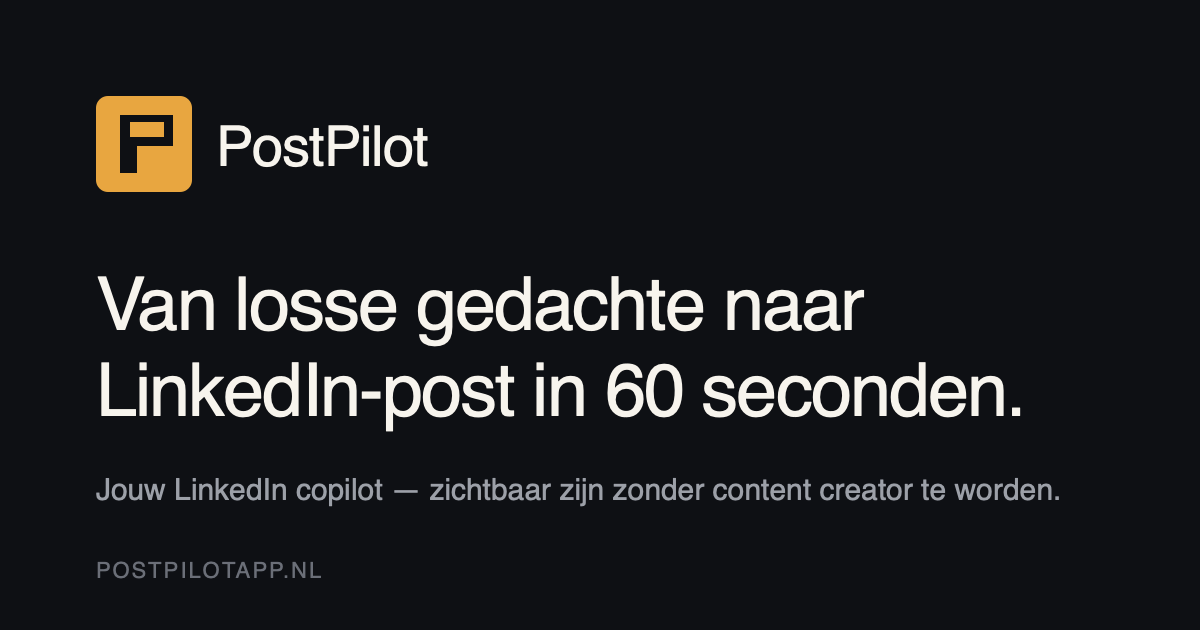
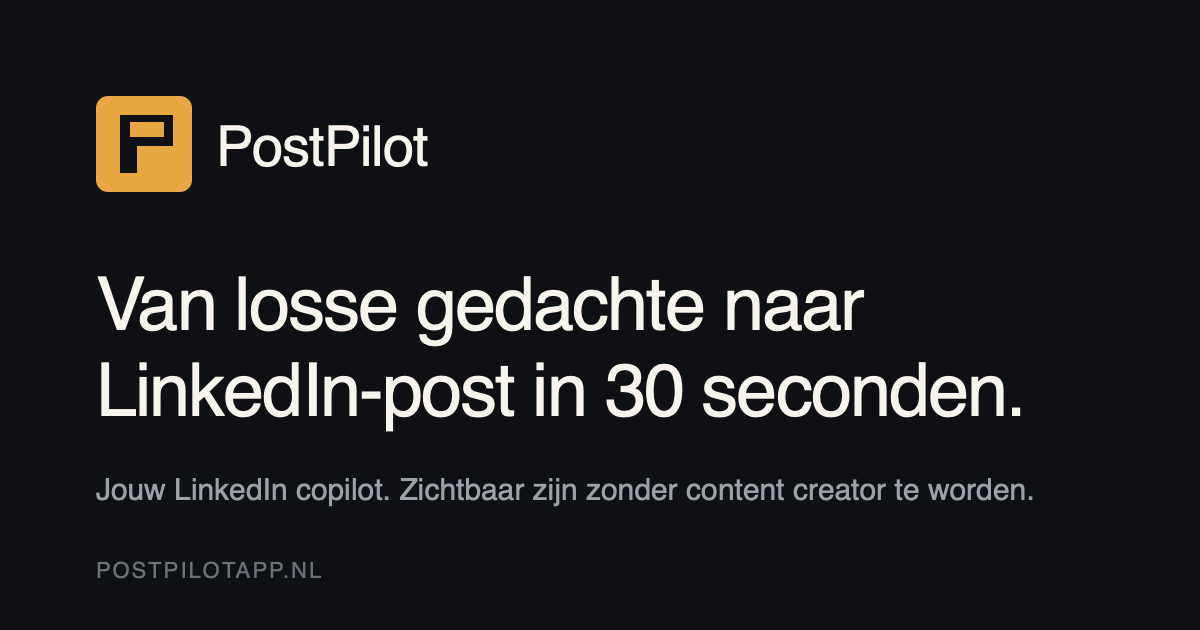
Final copy fixes before the free plan leaves the site
- Hidden trial copy in the pricing and closing leads now reads as a second
  sentence ("De eerste 30 dagen zijn gratis." / "De eerste 30 dagen betaal
  je niets."). stripeTrial stays false.
- One number for the speed claim: 30 seconds. Replaced "60 seconden" and
  the "ongeveer een minuut" / "in één" variants on the generator and
  writing pages, in the web manifest and in the share image.
- Share image: same design, re-rendered with sips; the em dash is gone.

Changed region(s): [[0.3392, 0.754, 0.8942, 0.8143], [0.4933, 0.573, 0.555, 0.6635]]

diff --git a/linkedin-posts-schrijven.html b/linkedin-posts-schrijven.html
@@ -21,20 +21,20 @@
   <script>(function(w,d,s,l,i){w[l]=w[l]||[];w[l].push({'gtm.start':new Date().getTime(),event:'gtm.js'});var f=d.getElementsByTagName(s)[0],j=d.createElement(s),dl=l!=='dataLayer'?'&l='+l:'';j.async=true;j.src='https://data.postpilotapp.nl/d8zhtxip1v.js?tg='+i+dl;f.parentNode.insertBefore(j,f);})(window,document,'script','dataLayer','NG5RNNJH');</script>
   <!-- ───── einde tracking ───── -->
   <title>LinkedIn-posts schrijven in het Nederlands · PostPilot</title>
-  <meta name="description" content="LinkedIn-posts schrijven kost vaak 30 minuten. Met de juiste aanpak (en een Nederlandse post generator) doe je het in één. Stappenplan plus voorbeelden.">
+  <meta name="description" content="LinkedIn-posts schrijven kost vaak 30 minuten. Met de juiste aanpak (en een Nederlandse post generator) staat je post er in 30 seconden. Stappenplan plus voorbeelden.">
   <link rel="canonical" href="https://www.postpilotapp.nl/linkedin-posts-schrijven">
   <meta property="og:type" content="article">
   <meta property="og:site_name" content="PostPilot">
   <meta property="og:locale" content="nl_NL">
   <meta property="og:title" content="LinkedIn-posts schrijven in het Nederlands · PostPilot">
-  <meta property="og:description" content="LinkedIn-posts schrijven kost vaak 30 minuten. Met de juiste aanpak (en een Nederlandse post generator) doe je het in één. Stappenplan plus voorbeelden.">
+  <meta property="og:description" content="LinkedIn-posts schrijven kost vaak 30 minuten. Met de juiste aanpak (en een Nederlandse post generator) staat je post er in 30 seconden. Stappenplan plus voorbeelden.">
   <meta property="og:url" content="https://www.postpilotapp.nl/linkedin-posts-schrijven">
   <meta property="og:image" content="https://www.postpilotapp.nl/assets/og-image.png">
   <meta property="og:image:width" content="1200">
   <meta property="og:image:height" content="630">
   <meta name="twitter:card" content="summary_large_image">
   <meta name="twitter:title" content="LinkedIn-posts schrijven in het Nederlands · PostPilot">
-  <meta name="twitter:description" content="LinkedIn-posts schrijven kost vaak 30 minuten. Met de juiste aanpak doe je het in één. Stappenplan plus voorbeelden.">
+  <meta name="twitter:description" content="LinkedIn-posts schrijven kost vaak 30 minuten. Met de juiste aanpak staat je post er in 30 seconden. Stappenplan plus voorbeelden.">
   <meta name="twitter:image" content="https://www.postpilotapp.nl/assets/og-image.png">
   <link rel="icon" href="/assets/favicon.svg" type="image/svg+xml">
   <link rel="apple-touch-icon" href="/assets/apple-touch-icon.png">
@@ -155,7 +155,7 @@
           <section>
             <h2>Hoe je het sneller doet met PostPilot</h2>
             <p>
-              Die vijf stappen kosten met de hand al snel 30 minuten. PostPilot doet het in ongeveer één. Je geeft je idee in één zin, <a href="/linkedin-post-generator">de LinkedIn post generator</a> schrijft de post in jouw toon, en jij slijpt bij waar nodig. Je blijft eindredacteur, maar je begint nooit meer bij een leeg scherm.
+              Die vijf stappen kosten met de hand al snel 30 minuten. PostPilot doet het in ongeveer 30 seconden. Je geeft je idee in één zin, <a href="/linkedin-post-generator">de LinkedIn post generator</a> schrijft de post in jouw toon, en jij slijpt bij waar nodig. Je blijft eindredacteur, maar je begint nooit meer bij een leeg scherm.
             </p>
           </section>
 
@@ -178,7 +178,7 @@
 
           <section class="about-facts">
             <h2>In het kort</h2>
-            <p>LinkedIn-posts schrijf je sneller door te beginnen bij een concreet moment, één idee per post te kiezen, en te publiceren voordat het perfect is. ChatGPT kan helpen, maar kent je toon niet en publiceert niet zelf. Een Nederlandse tool als PostPilot verkort het schrijven van ongeveer 30 minuten naar ongeveer 1 minuut, voor €19 per maand.</p>
+            <p>LinkedIn-posts schrijf je sneller door te beginnen bij een concreet moment, één idee per post te kiezen, en te publiceren voordat het perfect is. ChatGPT kan helpen, maar kent je toon niet en publiceert niet zelf. Een Nederlandse tool als PostPilot verkort het schrijven van ongeveer 30 minuten naar ongeveer 30 seconden, voor €19 per maand.</p>
           </section>
 
           <div class="about-cta">

diff --git a/linkedin-post-generator.html b/linkedin-post-generator.html
@@ -21,20 +21,20 @@
   <script>(function(w,d,s,l,i){w[l]=w[l]||[];w[l].push({'gtm.start':new Date().getTime(),event:'gtm.js'});var f=d.getElementsByTagName(s)[0],j=d.createElement(s),dl=l!=='dataLayer'?'&l='+l:'';j.async=true;j.src='https://data.postpilotapp.nl/d8zhtxip1v.js?tg='+i+dl;f.parentNode.insertBefore(j,f);})(window,document,'script','dataLayer','NG5RNNJH');</script>
   <!-- ───── einde tracking ───── -->
   <title>LinkedIn post generator in het Nederlands · PostPilot</title>
-  <meta name="description" content="Met de LinkedIn post generator van PostPilot maak je van één idee een complete post in jouw toon. Nederlands, binnen 60 seconden.">
+  <meta name="description" content="Met de LinkedIn post generator van PostPilot maak je van één idee een complete post in jouw toon. Nederlands, binnen 30 seconden.">
   <link rel="canonical" href="https://www.postpilotapp.nl/linkedin-post-generator">
   <meta property="og:type" content="website">
   <meta property="og:site_name" content="PostPilot">
   <meta property="og:locale" content="nl_NL">
   <meta property="og:title" content="LinkedIn post generator in het Nederlands · PostPilot">
-  <meta property="og:description" content="Met de LinkedIn post generator van PostPilot maak je van één idee een complete post in jouw toon. Nederlands, binnen 60 seconden.">
+  <meta property="og:description" content="Met de LinkedIn post generator van PostPilot maak je van één idee een complete post in jouw toon. Nederlands, binnen 30 seconden.">
   <meta property="og:url" content="https://www.postpilotapp.nl/linkedin-post-generator">
   <meta property="og:image" content="https://www.postpilotapp.nl/assets/og-image.png">
   <meta property="og:image:width" content="1200">
   <meta property="og:image:height" content="630">
   <meta name="twitter:card" content="summary_large_image">
   <meta name="twitter:title" content="LinkedIn post generator in het Nederlands · PostPilot">
-  <meta name="twitter:description" content="Met de LinkedIn post generator van PostPilot maak je van één idee een complete post in jouw toon. Nederlands, binnen 60 seconden.">
+  <meta name="twitter:description" content="Met de LinkedIn post generator van PostPilot maak je van één idee een complete post in jouw toon. Nederlands, binnen 30 seconden.">
   <meta name="twitter:image" content="https://www.postpilotapp.nl/assets/og-image.png">
   <link rel="icon" href="/assets/favicon.svg" type="image/svg+xml">
   <link rel="apple-touch-icon" href="/assets/apple-touch-icon.png">
@@ -153,7 +153,7 @@
 
           <section>
             <h2>Hoe de generator werkt</h2>
-            <p>Drie stappen, samen ongeveer een minuut.</p>
+            <p>Drie stappen. De post staat er binnen 30 seconden.</p>
             <ol>
               <li><strong>Geef je idee.</strong> Een gedachte, een klantgesprek, iets dat je vandaag opviel. Eén of twee zinnen.</li>
               <li><strong>PostPilot schrijft de post.</strong> Compleet, in jouw toon, met preview. Bijslijpen kan met één klik.</li>

diff --git a/index.html b/index.html
@@ -354,7 +354,7 @@ Daardoor merk ik dat ik klaar ben voor iets nieuws, iets waar de marketinguitdag
 
   <section class="section" id="pricing" data-screen-label="05 prijzen">
     <div class="wrap">
-      <div class="sec-head center"><span class="eyebrow">Prijzen</span><h2 class="h2">Twee plannen. Eén eenmalige uitzondering.</h2><p class="lead">Per maand opzegbaar, zonder opzegtermijn. <span data-requires="stripe-trial">Of probeer Premium 30 dagen zonder te betalen.</span></p></div>
+      <div class="sec-head center"><span class="eyebrow">Prijzen</span><h2 class="h2">Twee plannen. Eén eenmalige uitzondering.</h2><p class="lead">Per maand opzegbaar, zonder opzegtermijn. <span data-requires="stripe-trial">De eerste 30 dagen zijn gratis.</span></p></div>
       <div class="plans">
         <!-- TRIAL-COPY · pas live zetten als de Stripe-proefperiode gebouwd is (trial, kaartregistratie, afschrijving dag 30, bericht dag 27). Zet dan stripeTrial in /flags.js op true: de knoppen worden "Start 30 dagen gratis" en de 30-dagen-copy keert terug. -->
         <div class="plan featured reveal">
@@ -426,7 +426,7 @@ Daardoor merk ik dat ik klaar ben voor iets nieuws, iets waar de marketinguitdag
   <section class="section final" id="start" data-screen-label="07 final cta">
     <div class="wrap">
       <h2 class="h2">Je volgende post zit al in je hoofd. Spreek 'm uit.</h2>
-      <p class="lead">Premium is €19 per maand en altijd opzegbaar. <span data-requires="stripe-trial">Of probeer Premium 30 dagen.</span></p>
+      <p class="lead">Premium is €19 per maand en altijd opzegbaar. <span data-requires="stripe-trial">De eerste 30 dagen betaal je niets.</span></p>
       <div class="ctas"><a href="https://app.postpilotapp.nl/signup" class="btn btn-primary btn-lg"><span class="cta-label"></span><svg width="16" height="16" viewBox="0 0 24 24" fill="none" stroke="currentColor" stroke-width="1.5" stroke-linecap="round" stroke-linejoin="round"><path d="M5 12h14"/><path d="m12 5 7 7-7 7"/></svg></a></div>
       <p class="final-fine" data-requires="stripe-trial">Premium: 30 dagen gratis, daarna €19 per maand. Opzeggen kan altijd.</p>
     </div>
